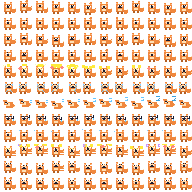
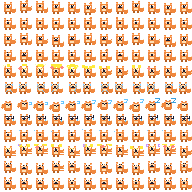
fix(pet): adjust curled sleep to rounder ball shape, less flat

Changed region(s): [[0.0, 0.5, 1.0, 0.5938]]

diff --git a/_gen_spritesheet.py b/_gen_spritesheet.py
@@ -484,68 +484,71 @@ for f in range(12):
     draw_fox(img, f * FRAME + dx, 5 * FRAME, cell_oy=5 * FRAME, **kwargs)
 
 # ════════════════════════════════════════════════════════════════
-# Row 6: sleeping — 侧躺（12帧：身体自然侧卧、头枕地、腿消失、Zzz 轻浮）
+# Row 6: sleeping — 蜷睡（12帧：身体蜷成球、头埋低、腿消失、Zzz 从身侧）
 # ════════════════════════════════════════════════════════════════
+# 蜷睡关键：身体从 16px 压缩到 ~10px 高的圆球、腿完全消失、Zzz 从身侧冒出
 sleep_dys = [0, -1, 0, 1, 0, 0, -1, 0, 1, 0, -1, 0]  # 呼吸起伏
 
-def draw_fox_sleeping(canvas, ox, oy, frame, cell_oy):
-    """绘制侧躺睡姿：身体自然侧卧、头枕在前腿位置、腿消失、尾巴卷曲"""
+def draw_fox_curled(canvas, ox, oy, frame, cell_oy):
+    """绘制蜷睡姿态：身体蜷成圆球，腿消失，尾巴卷到身前"""
     _set_cell_rect(ox, cell_oy, ox + FRAME - 1, cell_oy + FRAME - 1)
 
     dy = sleep_dys[frame]
-    # ── 身体（侧躺椭圆，y=6~12，7px 高）
-    for y in range(6 + dy, 12 + dy):
-        for x in range(6, 13):
+    # ── 主体圆球（y=6~14，波浪形边缘模拟圆形）──
+    # 圆球主体：宽 x=4~11，高 y=7~13，带渐消边缘形成球形
+    for y in range(7 + dy, 14 + dy):
+        for x in range(4, 12):
             p_px(canvas, ox, oy, x, y, ORANGE)
-    # 肚皮白色
-    for y in range(7 + dy, 10 + dy):
+    # 球的上半圆修饰（y=6，两侧收缩形成弧形）
+    for x in range(5, 11):
+        p_px(canvas, ox, oy, x, 6 + dy, ORANGE)
+    # 球的底部修饰（y=14，收缩）
+    for x in range(5, 11):
+        p_px(canvas, ox, oy, x, 14 + dy, ORANGE_MID)
+    # ── 肚皮（球心浅色区域）──
+    for y in range(8 + dy, 12 + dy):
         for x in range(6, 10):
             p_px(canvas, ox, oy, x, y, CREAM)
-
-    # ── 头（枕在左臂位置，y=5~8）
-    for y in range(5 + dy, 9 + dy):
-        for x in range(4, 8):
+    # ── 头（在球的上端露出）──
+    for y in range(6 + dy, 9 + dy):
+        for x in range(5, 11):
             p_px(canvas, ox, oy, x, y, ORANGE)
-    # 脸白色（朝向左侧）
-    for y in range(5 + dy, 8 + dy):
-        for x in range(5, 8):
+    # 脸（头埋低，脸朝前方，脸部在球的上部）
+    for y in range(7 + dy, 9 + dy):
+        for x in range(6, 10):
             p_px(canvas, ox, oy, x, y, CREAM)
-
-    # ── 耳朵（自然垂在头侧）
-    ear_l = [(3, 4 + dy), (4, 4 + dy), (3, 5 + dy), (4, 5 + dy)]
-    for x, y in ear_l:
+    # ── 耳朵（贴在头顶两侧，dy 偏移）──
+    for x, y in [(5, 5 + dy), (6, 5 + dy), (9, 5 + dy), (10, 5 + dy)]:
         p_px(canvas, ox, oy, x, y, ORANGE)
-    p_px(canvas, ox, oy, 3, 5 + dy, PINK_SOFT)
-    ear_r = [(5, 4 + dy), (6, 4 + dy), (5, 5 + dy), (6, 5 + dy)]
-    for x, y in ear_r:
-        p_px(canvas, ox, oy, x, y, ORANGE)
-
-    # ── 眼睛（闭合：弧形线）
-    for x, y in [(5, 6 + dy), (6, 6 + dy)]:
+    for x, y in [(5, 6 + dy), (10, 6 + dy)]:
+        p_px(canvas, ox, oy, x, y, PINK_SOFT)
+    # ── 眼睛（闭合：水平短线）──
+    for x, y in [(6, 8 + dy), (7, 8 + dy), (9, 8 + dy), (10, 8 + dy)]:
         p_px(canvas, ox, oy, x, y, DARK)
-    # 鼻子
-    p_px(canvas, ox, oy, 7, 7 + dy, DARK)
-
-    # ── 尾巴（从身后甩到右侧）
-    tail_side = [(12, 8 + dy), (13, 8 + dy), (13, 9 + dy), (14, 9 + dy),
-                 (14, 10 + dy), (13, 10 + dy), (12, 10 + dy)]
-    for x, y in tail_side:
+    # ── 鼻子（小点）──
+    p_px(canvas, ox, oy, 8, 9 + dy, DARK)
+    # ── 尾巴（卷到身前，覆盖在圆球左侧）──
+    for x, y in [(2, 8 + dy), (3, 8 + dy), (2, 9 + dy), (3, 9 + dy),
+                 (1, 9 + dy), (1, 10 + dy), (2, 10 + dy), (3, 10 + dy),
+                 (1, 11 + dy), (2, 11 + dy), (3, 11 + dy), (2, 12 + dy)]:
         p_px(canvas, ox, oy, x, y, ORANGE)
-    # 尾巴尖白色
-    p_px(canvas, ox, oy, 14, 10 + dy, CREAM)
-
-    # ── 腿（完全看不见——被身体遮住）
+    # 尾巴尖（白色）
+    for x, y in [(1, 9 + dy), (1, 10 + dy)]:
+        p_px(canvas, ox, oy, x, y, CREAM)
 
 
 for f in range(12):
-    draw_fox_sleeping(img, f * FRAME, 6 * FRAME, f, cell_oy=6 * FRAME)
-    # Zzz 从身体右侧上方冒出
+    # 蜷睡帧循环：呼吸（dy 起伏）+ Zzz 从身侧（x=12-14）冒出
+    draw_fox_curled(img, f * FRAME, 6 * FRAME, f, cell_oy=6 * FRAME)
+    # Zzz 冒泡（5-11 帧，从身体左侧 x=12+ 冒出）
     zzz_seq_per_frame = [None, 0, 0, 1, 1, 2, 2, 3, 3, 4, 4, None]
     zz = zzz_seq_per_frame[f]
     if zz is not None:
-        zzz_positions = [(14, 4, 1), (14, 3, 1), (13, 2, 2), (13, 1, 2),
-                         (12, 0, 3), (12, -1, 3), None,
-                         (13, 2, 2), (12, 1, 3), None, None, None]
+        # Zzz 位置（从身侧冒出，dx/dy 相对单元格左上角）
+        # 每帧的 (dx, dy, size) - dx 在身侧（x>10），dy 在头顶方向（y<8）
+        zzz_positions = [(13, 6, 1), (13, 5, 1), (12, 4, 2), (12, 3, 2),
+                         (11, 2, 3), (11, 1, 3), None,
+                         (12, 5, 2), (11, 4, 3), None, None, None]
         entry = zzz_positions[zz] if zz < len(zzz_positions) else None
         if entry is not None:
             dx, dy_zzz, size = entry
